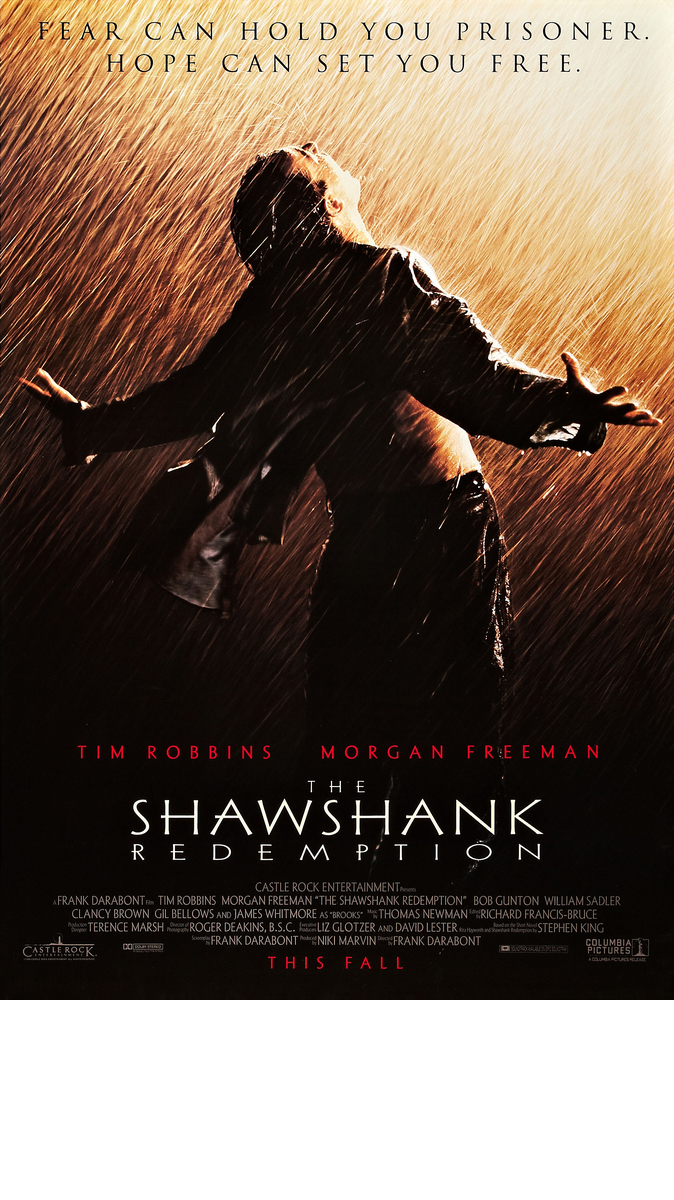
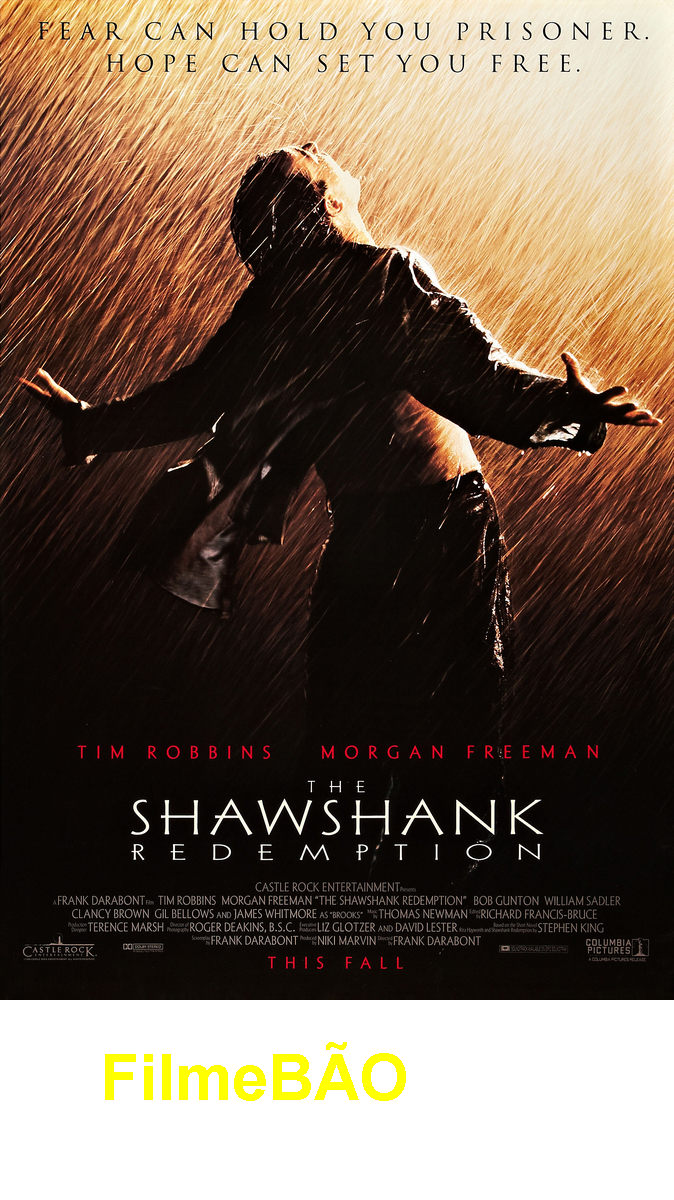
Lendo_imagem_doPath

Changed region(s): [[0.1558, 0.8633, 0.6231, 0.925]]

diff --git a/src/GeradoraDeFigurinhas.java b/src/GeradoraDeFigurinhas.java
@@ -4,6 +4,8 @@ import java.awt.Graphics2D;
 import java.awt.image.BufferedImage;
 import javax.imageio.ImageIO;
 
+import java.awt.Color;
+import java.awt.Font;
 public class GeradoraDeFigurinhas {
     
     
@@ -22,8 +24,13 @@ BufferedImage novaImagem = new BufferedImage(largura, novaAltura, BufferedImage.
 //copiar a imagem original para nova imagem
 Graphics2D graphics = (Graphics2D) novaImagem.getGraphics();
 graphics.drawImage(imagemOriginal, 0, 0, null);
-// escrever frase no sticker
 
+//Configurar a fonte 
+var fonte = new Font(Font.SANS_SERIF, Font.BOLD, 64);
+graphics.setFont(fonte);
+graphics.setColor(Color.YELLOW);
+// escrever frase no sticker
+graphics.drawString("FilmeBÃO", 100, novaAltura - 100);
 
 
 //escrever nova imagem em um arquivo
